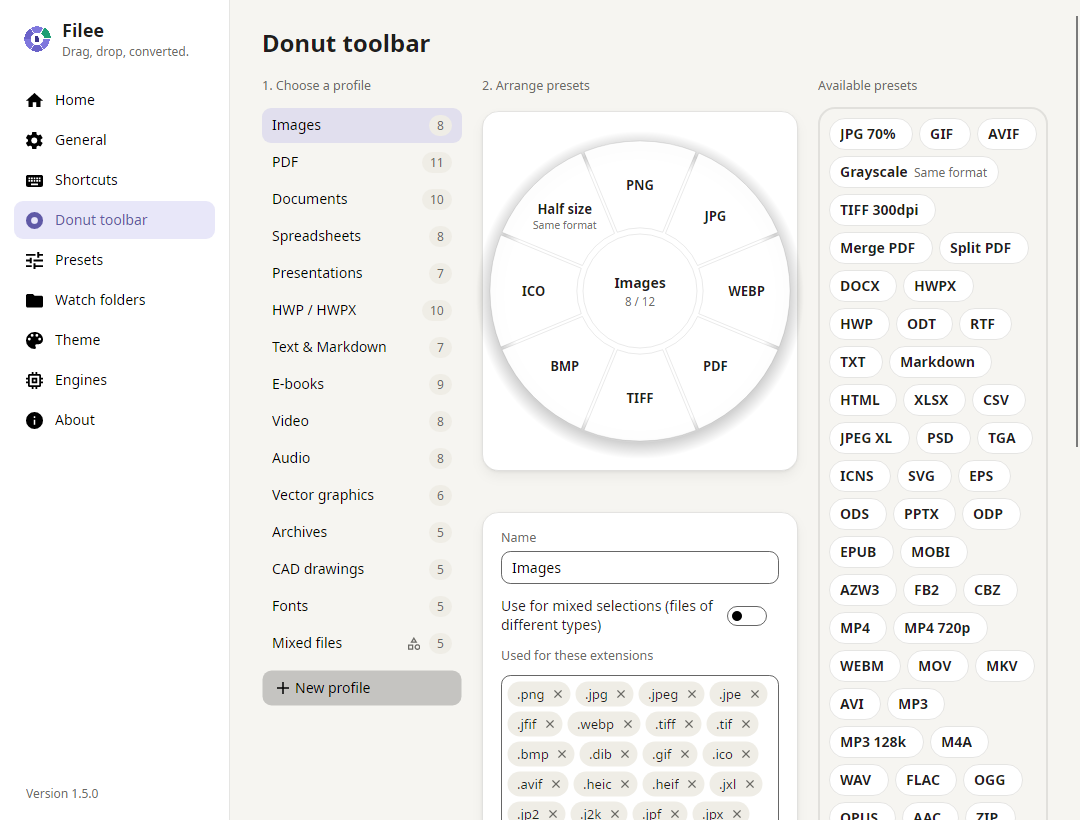
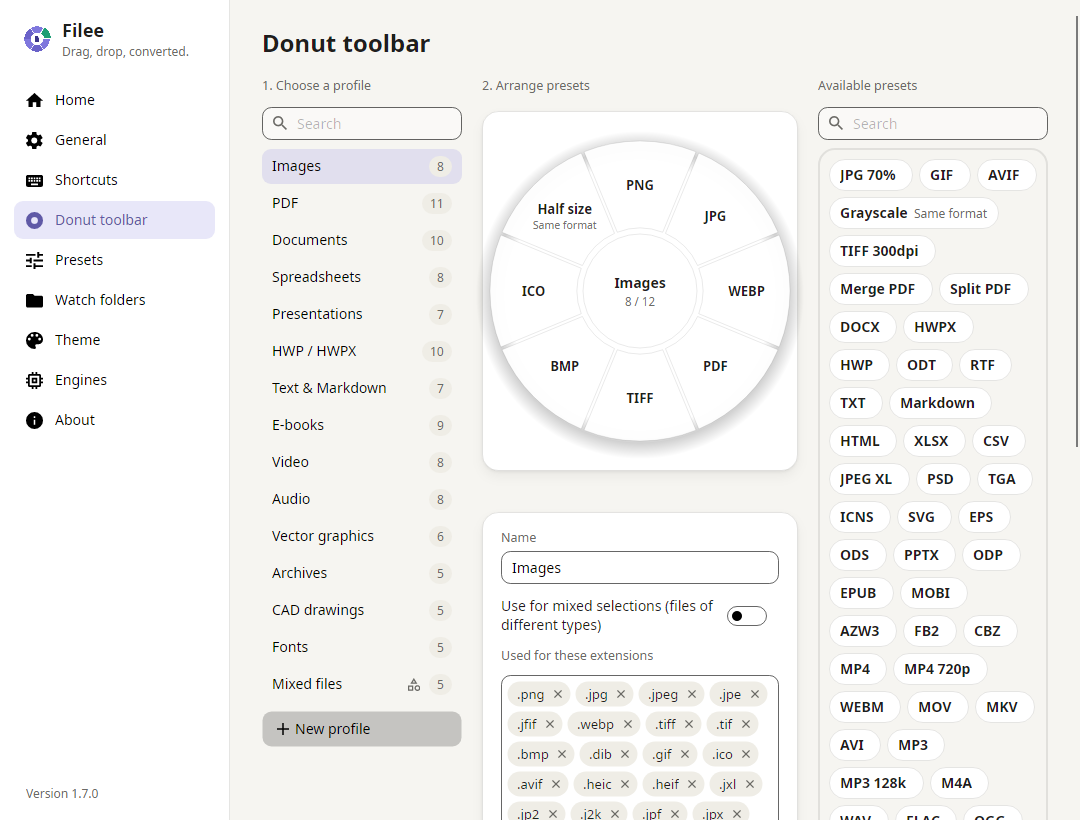
Version 1.7.0
- CHANGELOG: macOS and Linux previews, search, excluded apps as tags, updates on About, nothing pre-ticked.
- README screenshots rendered again (search boxes, version 1.7.0, nothing ticked in the engine choice).
- The Linux and macOS packages workflow runs on pull requests.

diff --git a/CHANGELOG.md b/CHANGELOG.md
@@ -6,6 +6,33 @@ version it publishes under "What's Changed" in the GitHub release notes, above t
 Add a `## <version>` section before tagging a release. Write what someone using Filee notices: what's new, where to
 find it, what it does and doesn't do.
 
+## 1.7.0
+
+### macOS and Linux (preview)
+
+- Filee runs on macOS 14 or later (Apple silicon and Intel) and on Linux (x64 and ARM64). Download the package for
+  your system from this release and run `install.sh` in it. These are previews: the macOS app isn't notarized yet,
+  so macOS asks you to allow it once under System Settings → Privacy & Security.
+- macOS: hold Option and drag files to open the donut. Filee asks for the Accessibility permission the gesture needs
+  and starts it as soon as you switch Filee on. "Convert with Filee" is in Finder's right-click menu.
+- Linux: the drag gesture works in an X11 session (on Ubuntu, "Ubuntu on Xorg" on the login screen). On Wayland, use
+  the drop zone and the right-click action in Nautilus, Nemo, Thunar or Dolphin.
+- FFmpeg and Ghostscript come from Homebrew on macOS and from your distribution's packages on Linux. Filee finds them
+  by itself.
+
+### New
+
+- Search boxes above the profiles and the available presets (Donut toolbar) and above the preset list. A profile is
+  also found by an extension it handles: type "png" to find the image donut.
+- "Never trigger in these apps" (Shortcuts) holds the apps as tags. Type a name, with the running apps suggested, or
+  pick one from the apps that have a window open.
+- The update settings are on the About page now: the automatic check, Check now and the update button.
+- The first-run engine choice starts with nothing ticked, so only what you pick is downloaded.
+
+### Fixes
+
+- On macOS and Linux, watch folders wait for a copy that pauses to finish instead of converting it half-written.
+
 ## 1.6.0
 
 ### New in the preset editor for audio
